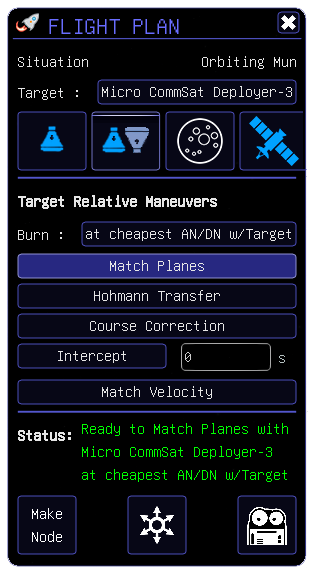
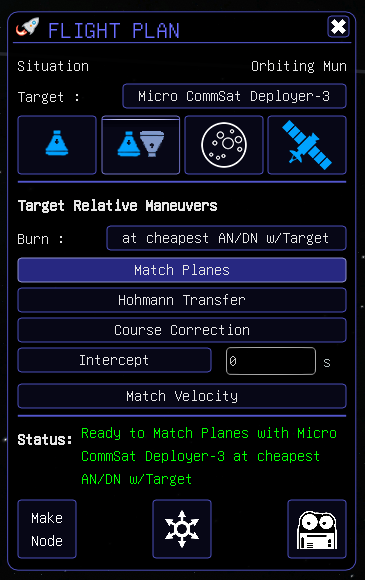
Set window width to 350

diff --git a/FlightPlanProject/UI/FPStyles.cs b/FlightPlanProject/UI/FPStyles.cs
@@ -17,7 +17,7 @@ public class FPStyles
         if (!KBaseStyle.Init())
             return false;
 
-        KBaseStyle.Skin.window.fixedWidth = 300; // Must fit with max_width given to DrawTabs (TabsUI.cs)
+        KBaseStyle.Skin.window.fixedWidth = 350; // Must fit with max_width given to DrawTabs (TabsUI.cs)
 
         // Load specific Icon and style here
         K2D2BigIcon = AssetsLoader.LoadIcon("k2d2_big_icon");
